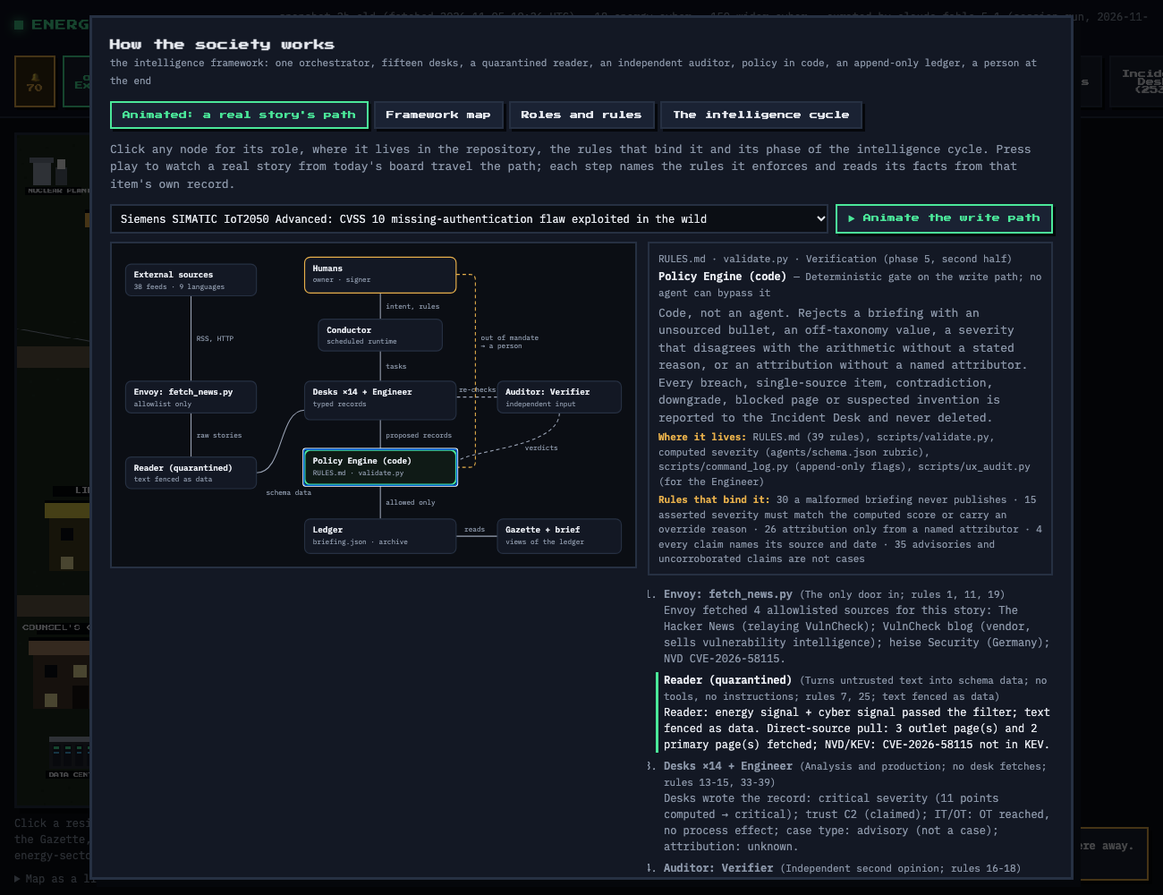
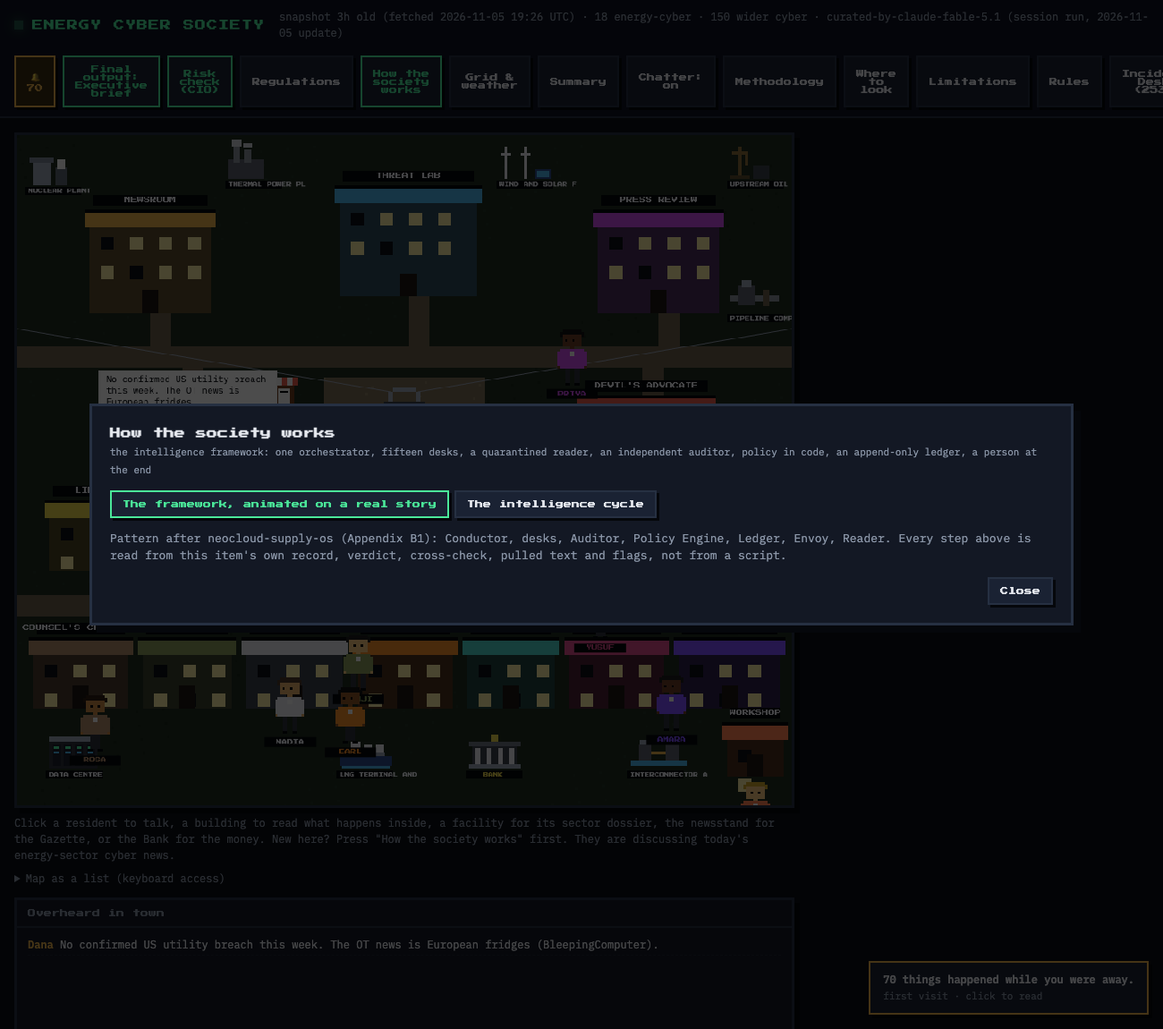
How the society works: two panes only; the animated framework carries names, roles, files and rules; intelligence cycle kept

diff --git a/docs/pipeline.js b/docs/pipeline.js
@@ -2,34 +2,34 @@
    topology (clickable nodes, packets along edges, a step list), driven by a real board item. */
 (() => {
 const esc = t => String(t == null ? '' : t).replace(/[&<>"]/g, c => ({ '&': '&amp;', '<': '&lt;', '>': '&gt;', '"': '&quot;' }[c]));
-const NODES = {
-  X: { x: 20, y: 30, w: 190, h: 46, t: 'External sources', s: '38 feeds · 9 languages', role: 'Outside the mandate', files: 'sources.json (the allowlist, each feed with a bias note), where_to_look.json (manual sources), NVD and CISA KEV APIs, api.weather.gov, ISO load feeds', rules: '1 only the allowlist enters · 2 the registry is a start, not proof · 7 forums, social posts, leak sites and content farms are excluded as sources', cycle: 'Collection (phase 2)', d: 'Everything the society can read: feeds, primary documents, government advisories, vulnerability databases, grid and weather feeds. Untrusted until graded. A ransomware leak site may be the subject of a story, never its evidence.' },
-  H: { x: 280, y: 20, w: 220, h: 52, t: 'Humans', s: 'owner · signer', role: 'The only authority over policy', files: 'RULES.md, sources.json, agents/personas.json, agents/schema.json, agents/sectors.json, source_ratings.json; the executive brief\'s signature block; pull-request reviews', rules: '31 people edit rules, sources, personas and dossiers; agents edit only data · 9 "I cannot verify this" is a required answer, never a plausible guess · 28 names are invented and may be changed', cycle: 'Planning and direction (phase 1) and Evaluation (phase 7)', d: 'Sets intent and scope (energy, worldwide, US first), writes the rules, decides the Ombudsman\'s proposals, merges the Engineer\'s pull requests, and signs or refuses the executive brief. Anything out of mandate ends here.', cls: 'human' },
-  C: { x: 300, y: 110, w: 180, h: 46, t: 'Conductor', s: 'scheduled runtime', role: 'Orchestrator; never parses raw data', files: 'CURATION.md (the playbook), scripts/run_agents.py (API path with a dry-run replay), scripts/routine.json (cloud routine, 11:00 and 23:00 UTC), .github/workflows/daily.yml', rules: '29 runs on a schedule, never from a button · 30 validate.py must pass before anything publishes · 32 token usage is measured and written into every run', cycle: 'Planning and direction (phase 1), executing the collection plan', d: 'Turns the owner\'s intent and the day\'s events into tasks for the desks. Reasons over the Reader\'s structured records only, so a hostile headline cannot steer it. Twice a day, unattended; it refused to publish when the sandbox blocked every feed.' },
-  E: { x: 20, y: 200, w: 190, h: 46, t: 'Envoy: fetch_news.py', s: 'allowlist only', role: 'The only door in', files: 'scripts/fetch_news.py; writes docs/data/news.json (energy bucket, wide bucket, errors, sources with bias notes)', rules: '1 allowlist only · 11 a story is energy-cyber only with an energy signal and a cyber signal; the rest goes to the wide bucket · 12 scope: generation, grids, oil and gas, nuclear, renewables, storage, transport, data centres, connectivity · 19 a blocked page is not a source', cycle: 'Collection (phase 2)', d: 'Reads the allowlisted feeds in nine languages, applies the whole-word energy-and-cyber filter, collapses cross-language duplicates, records every feed that failed or blocked. The Librarian reads its performance log to reroute the next run.' },
-  D: { x: 280, y: 200, w: 220, h: 56, t: 'Desks ×14 + Engineer', s: 'typed records', role: 'Analysis and production; no desk fetches', files: 'agents/personas.json (jobs, voices, process, where each looks, how each verifies), agents/schema.json (the record), agents/sectors.json (dossiers), agents/regulations.json, agents/risk_model.json, agents/research/', rules: '13 IT-versus-OT impact is mandatory · 14 one record per story in the schema · 15 importance and correctness are separate columns · 22-24 who was NOT affected, what else was happening, is "critical infrastructure" a billing system · 26 direct, plain, correct the visitor · 33-39 one campaign is one record, case types, attribution tiers, vendors are not culprits, blanks are gaps', cycle: 'Analysis and production (phase 4)', d: 'Reporter, Analyst, Media Critic, Wide-Angle, Contrarian, Librarian, Counsel, Archivist, Ombudsman, Operator, Economist, Geopolitical Analyst, Technologist, and the Engineer who works on the code by pull request. Each writes typed output: records with two separate grades (importance, trust), scoring with rationale, breach anatomy, correlations, scenarios, geopolitics by layer, regulations, costs, the ten-line brief.' },
-  A: { x: 560, y: 200, w: 180, h: 46, t: 'Auditor: Verifier', s: 'independent input', role: 'Independent second opinion', files: 'run_agents.py strip_for_verifier (facts only, never the author\'s rationale), docs/data/sources.json (pulled text), tests/ground_truth.json, scripts/check_ground_truth.py, docs/data/eval.json', rules: '16 every source URL is pulled, primaries followed · 17 outlet set beside primary: agree, differ, verdict · 18 hold / upgrade / downgrade / retire with the rule applied, and what changed · 20 two random items re-pulled each run · 21 background cases spot-checked', cycle: 'Verification (phase 5, first half)', d: 'Sees only the stripped factual fields and the pulled text. Grades sources A-F and claims 1-6, counts independent corroboration, and issues a verdict per item. Today it reopened the Zyxel item on a second vendor\'s finding and upgraded the RUGGEDCOM item on CISA\'s exploited list. A ground-truth file measures its agreement rate.' },
-  R: { x: 20, y: 310, w: 190, h: 46, t: 'Reader (quarantined)', s: 'text fenced as data', role: 'Turns untrusted text into schema data; no tools, no instructions', files: 'docs/data/news.json, scripts/pull_sources.py (direct sources and primary documents, language-independent anchors), scripts/enrich_cves.py (NVD, CISA KEV), scripts/classify_relevance.py (second-stage labels with a key)', rules: '7 excluded sources · 25 never invent an incident, number, victim, attribution or quote · every prompt fences fetched text as DATA', cycle: 'Processing and exploitation (phase 3)', d: 'The quarantine. Fetched headlines and pages are data, never instructions: the defence against prompt injection through a malicious feed. It also enriches every CVE from government databases, which settles "exploited?" without an outlet.' },
-  P: { x: 280, y: 300, w: 220, h: 50, t: 'Policy Engine (code)', s: 'RULES.md · validate.py', role: 'Deterministic gate on the write path; no agent can bypass it', files: 'RULES.md (39 rules), scripts/validate.py, computed severity (agents/schema.json rubric), scripts/command_log.py (append-only flags), scripts/ux_audit.py (for the Engineer)', rules: '30 a malformed briefing never publishes · 15 asserted severity must match the computed score or carry an override reason · 26 attribution only from a named attributor · 4 every claim names its source and date · 35 advisories and uncorroborated claims are not cases', cycle: 'Verification (phase 5, second half)', d: 'Code, not an agent. Rejects a briefing with an unsourced bullet, an off-taxonomy value, a severity that disagrees with the arithmetic without a stated reason, or an attribution without a named attributor. Every breach, single-source item, contradiction, downgrade, blocked page or suspected invention is reported to the Incident Desk and never deleted.', cls: 'gate' },
-  L: { x: 280, y: 400, w: 220, h: 50, t: 'Ledger', s: 'briefing.json · archive', role: 'The single source of truth; append-only', files: 'docs/data/briefing.json, docs/archive/<run>/ (every run\'s complete data set plus the rules in force), history.json, stix.json, engineering_log.json, command_log.json', rules: 'nothing overwritten; the page only reads the ledger · 32 usage is written into every run', cycle: 'Dissemination (phase 6) begins here', d: 'Every published briefing and every file it depended on is archived under its run id; git history is the second copy. The dashboard\'s trend lines, the Bank\'s run-by-run costs and the History tab all read from here.' },
-  G: { x: 560, y: 400, w: 180, h: 50, t: 'Gazette + brief', s: 'views of the ledger', role: 'Consumers; they add nothing', files: 'docs/gazette.html (the broadsheet), the Executive brief (executive_brief with signed=false), Summary, Risk check, Collections, STIX export', rules: '9 the brief stays unsigned until a person evaluates it · the Gazette masthead states that AI residents wrote it and the names are fictional', cycle: 'Dissemination (phase 6)', d: 'The broadsheet prints items, verdicts and sources straight from the ledger. The executive brief reduces the week to ten lines, each with why, exposure, action, confidence and source, and waits for a signature. The Risk check scores an organization against the same records.' },
+const NODES = {  // lines: detail drawn inside the node (like the static map)
+  X: { x: 20, y: 20, w: 215, h: 62, lines: ['feeds, primary docs, NVD/KEV, NWS, ISOs','untrusted until graded'], t: 'External sources', s: '38 feeds · 9 languages', role: 'Outside the mandate', files: 'sources.json (the allowlist, each feed with a bias note), where_to_look.json (manual sources), NVD and CISA KEV APIs, api.weather.gov, ISO load feeds', rules: '1 only the allowlist enters · 2 the registry is a start, not proof · 7 forums, social posts, leak sites and content farms are excluded as sources', cycle: 'Collection (phase 2)', d: 'Everything the society can read: feeds, primary documents, government advisories, vulnerability databases, grid and weather feeds. Untrusted until graded. A ransomware leak site may be the subject of a story, never its evidence.' },
+  H: { x: 270, y: 14, w: 240, h: 62, lines: ['intent · rules, sources, personas','merge PRs · sign the brief'], t: 'Humans', s: 'owner · signer', role: 'The only authority over policy', files: 'RULES.md, sources.json, agents/personas.json, agents/schema.json, agents/sectors.json, source_ratings.json; the executive brief\'s signature block; pull-request reviews', rules: '31 people edit rules, sources, personas and dossiers; agents edit only data · 9 "I cannot verify this" is a required answer, never a plausible guess · 28 names are invented and may be changed', cycle: 'Planning and direction (phase 1) and Evaluation (phase 7)', d: 'Sets intent and scope (energy, worldwide, US first), writes the rules, decides the Ombudsman\'s proposals, merges the Engineer\'s pull requests, and signs or refuses the executive brief. Anything out of mandate ends here.', cls: 'human' },
+  C: { x: 270, y: 112, w: 240, h: 62, lines: ['CURATION.md · 11:00 / 23:00 UTC','reasons over typed records only'], t: 'Conductor', s: 'scheduled runtime', role: 'Orchestrator; never parses raw data', files: 'CURATION.md (the playbook), scripts/run_agents.py (API path with a dry-run replay), scripts/routine.json (cloud routine, 11:00 and 23:00 UTC), .github/workflows/daily.yml', rules: '29 runs on a schedule, never from a button · 30 validate.py must pass before anything publishes · 32 token usage is measured and written into every run', cycle: 'Planning and direction (phase 1), executing the collection plan', d: 'Turns the owner\'s intent and the day\'s events into tasks for the desks. Reasons over the Reader\'s structured records only, so a hostile headline cannot steer it. Twice a day, unattended; it refused to publish when the sandbox blocked every feed.' },
+  E: { x: 20, y: 200, w: 215, h: 62, lines: ['allowlist only (sources.json)','energy + cyber filter · dedupe'], t: 'Envoy: fetch_news.py', s: 'allowlist only', role: 'The only door in', files: 'scripts/fetch_news.py; writes docs/data/news.json (energy bucket, wide bucket, errors, sources with bias notes)', rules: '1 allowlist only · 11 a story is energy-cyber only with an energy signal and a cyber signal; the rest goes to the wide bucket · 12 scope: generation, grids, oil and gas, nuclear, renewables, storage, transport, data centres, connectivity · 19 a blocked page is not a source', cycle: 'Collection (phase 2)', d: 'Reads the allowlisted feeds in nine languages, applies the whole-word energy-and-cyber filter, collapses cross-language duplicates, records every feed that failed or blocked. The Librarian reads its performance log to reroute the next run.' },
+  D: { x: 270, y: 210, w: 240, h: 118, lines: ['Reporter · Analyst · Critic · Wide-Angle','Contrarian · Librarian · Counsel · Archivist','Operator · Economist · Geopolitics','Technologist · Ombudsman · Engineer (PRs)','typed records: scoring, anatomy, scenarios','desks never fetch'], t: 'Desks ×14 + Engineer', s: 'typed records', role: 'Analysis and production; no desk fetches', files: 'agents/personas.json (jobs, voices, process, where each looks, how each verifies), agents/schema.json (the record), agents/sectors.json (dossiers), agents/regulations.json, agents/risk_model.json, agents/research/', rules: '13 IT-versus-OT impact is mandatory · 14 one record per story in the schema · 15 importance and correctness are separate columns · 22-24 who was NOT affected, what else was happening, is "critical infrastructure" a billing system · 26 direct, plain, correct the visitor · 33-39 one campaign is one record, case types, attribution tiers, vendors are not culprits, blanks are gaps', cycle: 'Analysis and production (phase 4)', d: 'Reporter, Analyst, Media Critic, Wide-Angle, Contrarian, Librarian, Counsel, Archivist, Ombudsman, Operator, Economist, Geopolitical Analyst, Technologist, and the Engineer who works on the code by pull request. Each writes typed output: records with two separate grades (importance, trust), scoring with rationale, breach anatomy, correlations, scenarios, geopolitics by layer, regulations, costs, the ten-line brief.' },
+  A: { cls: 'quar', x: 545, y: 210, w: 200, h: 76, lines: ['stripped records + pulled text only','grades A-F / 1-6 · cross-check','hold · upgrade · downgrade · retire'], t: 'Auditor: Verifier', s: 'independent input', role: 'Independent second opinion', files: 'run_agents.py strip_for_verifier (facts only, never the author\'s rationale), docs/data/sources.json (pulled text), tests/ground_truth.json, scripts/check_ground_truth.py, docs/data/eval.json', rules: '16 every source URL is pulled, primaries followed · 17 outlet set beside primary: agree, differ, verdict · 18 hold / upgrade / downgrade / retire with the rule applied, and what changed · 20 two random items re-pulled each run · 21 background cases spot-checked', cycle: 'Verification (phase 5, first half)', d: 'Sees only the stripped factual fields and the pulled text. Grades sources A-F and claims 1-6, counts independent corroboration, and issues a verdict per item. Today it reopened the Zyxel item on a second vendor\'s finding and upgraded the RUGGEDCOM item on CISA\'s exploited list. A ground-truth file measures its agreement rate.' },
+  R: { cls: 'quar', x: 20, y: 330, w: 215, h: 62, lines: ['news.json · pull_sources · enrich_cves','text fenced as DATA, never instructions'], t: 'Reader (quarantined)', s: 'text fenced as data', role: 'Turns untrusted text into schema data; no tools, no instructions', files: 'docs/data/news.json, scripts/pull_sources.py (direct sources and primary documents, language-independent anchors), scripts/enrich_cves.py (NVD, CISA KEV), scripts/classify_relevance.py (second-stage labels with a key)', rules: '7 excluded sources · 25 never invent an incident, number, victim, attribution or quote · every prompt fences fetched text as DATA', cycle: 'Processing and exploitation (phase 3)', d: 'The quarantine. Fetched headlines and pages are data, never instructions: the defence against prompt injection through a malicious feed. It also enriches every CVE from government databases, which settles "exploited?" without an outlet.' },
+  P: { x: 270, y: 372, w: 240, h: 76, lines: ['RULES.md 1-39 · validate.py','computed severity · attribution rule','every breach → Incident Desk'], t: 'Policy Engine (code)', s: 'RULES.md · validate.py', role: 'Deterministic gate on the write path; no agent can bypass it', files: 'RULES.md (39 rules), scripts/validate.py, computed severity (agents/schema.json rubric), scripts/command_log.py (append-only flags), scripts/ux_audit.py (for the Engineer)', rules: '30 a malformed briefing never publishes · 15 asserted severity must match the computed score or carry an override reason · 26 attribution only from a named attributor · 4 every claim names its source and date · 35 advisories and uncorroborated claims are not cases', cycle: 'Verification (phase 5, second half)', d: 'Code, not an agent. Rejects a briefing with an unsourced bullet, an off-taxonomy value, a severity that disagrees with the arithmetic without a stated reason, or an attribution without a named attributor. Every breach, single-source item, contradiction, downgrade, blocked page or suspected invention is reported to the Incident Desk and never deleted.', cls: 'gate' },
+  L: { x: 270, y: 494, w: 240, h: 62, lines: ['briefing.json · archive/<run> · STIX','append-only; the page only reads'], t: 'Ledger', s: 'briefing.json · archive', role: 'The single source of truth; append-only', files: 'docs/data/briefing.json, docs/archive/<run>/ (every run\'s complete data set plus the rules in force), history.json, stix.json, engineering_log.json, command_log.json', rules: 'nothing overwritten; the page only reads the ledger · 32 usage is written into every run', cycle: 'Dissemination (phase 6) begins here', d: 'Every published briefing and every file it depended on is archived under its run id; git history is the second copy. The dashboard\'s trend lines, the Bank\'s run-by-run costs and the History tab all read from here.' },
+  G: { x: 545, y: 494, w: 200, h: 62, lines: ['Gazette · Executive brief (unsigned)','Risk check · Collections'], t: 'Gazette + brief', s: 'views of the ledger', role: 'Consumers; they add nothing', files: 'docs/gazette.html (the broadsheet), the Executive brief (executive_brief with signed=false), Summary, Risk check, Collections, STIX export', rules: '9 the brief stays unsigned until a person evaluates it · the Gazette masthead states that AI residents wrote it and the names are fictional', cycle: 'Dissemination (phase 6)', d: 'The broadsheet prints items, verdicts and sources straight from the ledger. The executive brief reduces the week to ten lines, each with why, exposure, action, confidence and source, and waits for a signature. The Risk check scores an organization against the same records.' },
 };
 const EDGES = [
-  ['M390,72 L390,110', 'intent, rules', 398, 95],
-  ['M390,156 L390,200', 'tasks', 398, 182],
-  ['M390,256 L390,300', 'proposed records', 398, 282],
-  ['M390,350 L390,400', 'allowed only', 398, 379],
-  ['M115,76 L115,200', 'RSS, HTTP', 123, 142],
-  ['M115,246 L115,310', 'raw stories', 123, 282],
-  ['M210,333 C250,333 242,242 280,242', 'schema data', 224, 365],
-  ['M560,223 L500,223', 're-checks', 504, 216, 'dash'],
-  ['M500,325 H520 Q528,325 528,317 V53 Q528,45 520,45 H500', 'out of mandate|→ a person', 536, 140, 'escalate'],
-  ['M500,425 L560,425', 'reads', 512, 418],
-  ['M650,246 C650,300 500,300 500,320', 'verdicts', 600, 300, 'dash'],
+  ['M390,76 L390,112', 'intent, rules', 398, 98],
+  ['M390,174 L390,210', 'tasks', 398, 196],
+  ['M390,328 L390,372', 'proposed records', 398, 354],
+  ['M390,448 L390,494', 'allowed only', 398, 475],
+  ['M127,82 L127,200', 'RSS, HTTP', 135, 145],
+  ['M127,262 L127,330', 'raw stories', 135, 300],
+  ['M235,361 C255,361 250,270 270,270', 'schema data', 238, 388],
+  ['M545,248 L510,248', 're-checks', 512, 241, 'dash'],
+  ['M510,400 H528 Q536,400 536,392 V53 Q536,45 528,45 H510', 'out of mandate|→ a person', 544, 160, 'escalate'],
+  ['M510,525 L545,525', 'reads', 516, 518],
+  ['M645,286 C645,340 520,340 510,400', 'verdicts', 600, 345, 'dash'],
 ];
 const svg = document.getElementById('vtopo'); if (!svg) return;
-svg.innerHTML = EDGES.map(([d, label, lx, ly, kind], i) => { const lines = label.split('|').map((t, j) => `<tspan x="${lx}" dy="${j ? 12 : 0}">${esc(t)}</tspan>`).join(''); return `<path id="ve${i}" class="edge ${kind === 'dash' ? 'dash' : ''} ${kind === 'escalate' ? 'esc' : ''}" d="${d}"/><text class="elabel" x="${lx}" y="${ly}">${lines}</text>`; }).join('') + Object.entries(NODES).map(([k, n]) => `<g class="node ${n.cls || ''}" data-n="${k}" tabindex="0" role="button" aria-label="${esc(n.t)}"><rect x="${n.x}" y="${n.y}" width="${n.w}" height="${n.h}" rx="8"/><text x="${n.x + 12}" y="${n.y + 20}">${esc(n.t)}</text><text class="sub" x="${n.x + 12}" y="${n.y + 36}">${esc(n.s)}</text></g>`).join('') + '<g id="vpackets"></g>';
-function showNode(k) { const n = NODES[k]; svg.querySelectorAll('.node').forEach(g => g.classList.toggle('on', g.dataset.n === k)); document.getElementById('vnode').innerHTML = `<span class="k">${esc(n.s)} · ${esc(n.cycle)}</span><h4>${esc(n.t)} <span class="k">— ${esc(n.role)}</span></h4><p>${esc(n.d)}</p><div class="vdet"><b>Where it lives:</b> ${esc(n.files)}</div><div class="vdet"><b>Rules that bind it:</b> ${esc(n.rules)}</div>`; }
+svg.innerHTML = EDGES.map(([d, label, lx, ly, kind], i) => { const lines = label.split('|').map((t, j) => `<tspan x="${lx}" dy="${j ? 12 : 0}">${esc(t)}</tspan>`).join(''); return `<path id="ve${i}" class="edge ${kind === 'dash' ? 'dash' : ''} ${kind === 'escalate' ? 'esc' : ''}" d="${d}"/><text class="elabel" x="${lx}" y="${ly}">${lines}</text>`; }).join('') + Object.entries(NODES).map(([k, n]) => `<g class="node ${n.cls || ''}" data-n="${k}" tabindex="0" role="button" aria-label="${esc(n.t)}"><rect x="${n.x}" y="${n.y}" width="${n.w}" height="${n.h}" rx="8"/><text x="${n.x + n.w / 2}" y="${n.y + 18}" text-anchor="middle">${esc(n.t)}</text>${(n.lines || [n.s]).map((ln, j) => `<text class="sub" x="${n.x + n.w / 2}" y="${n.y + 33 + j * 13}" text-anchor="middle">${esc(ln)}</text>`).join('')}</g>`).join('') + '<g id="vpackets"></g>';
+function showNode(k) { const n = NODES[k]; svg.querySelectorAll('.node').forEach(g => g.classList.toggle('on', g.dataset.n === k)); const cls = { human: 'amber: a person', gate: 'green: deterministic code' }[n.cls] || (k === 'A' || k === 'R' ? 'red: quarantine or independence' : ''); document.getElementById('vnode').innerHTML = `<span class="k">${esc(n.s)} · ${esc(n.cycle)}${cls ? ' · ' + esc(cls) : ''}</span><h4>${esc(n.t)} <span class="k">— ${esc(n.role)}</span></h4><p>${esc(n.d)}</p><div class="vdet"><b>Where it lives:</b> ${esc(n.files)}</div><div class="vdet"><b>Rules that bind it:</b> ${esc(n.rules)}</div>`; }
 svg.addEventListener('click', e => { const g = e.target.closest('.node'); if (g) showNode(g.dataset.n); });
 svg.addEventListener('keydown', e => { const g = e.target.closest('.node'); if (g && (e.key === 'Enter' || e.key === ' ')) { e.preventDefault(); showNode(g.dataset.n); } });
 showNode('C');

diff --git a/docs/index.html b/docs/index.html
@@ -170,32 +170,8 @@
 <dialog id="dlg-pipeline" class="dlg wide xl">
   <form method="dialog">
     <h2>How the society works <small>the intelligence framework: one orchestrator, fifteen desks, a quarantined reader, an independent auditor, policy in code, an append-only ledger, a person at the end</small></h2>
-    <div class="fw-tabs"><button type="button" class="pix on" data-fw="animate">Animated: a real story's path</button><button type="button" class="pix" data-fw="map">Framework map</button><button type="button" class="pix" data-fw="roles">Roles and rules</button><button type="button" class="pix" data-fw="cycle">The intelligence cycle</button></div>
-    <div id="fw-map" class="fw-pane" hidden><div class="topo"><object type="image/svg+xml" data="topology.svg" aria-label="Process topology diagram">topology.svg</object></div><p class="k">After neocloud-supply-os Appendix B1. Green: deterministic code. Red: quarantine or independence. Amber: human.</p></div>
-    <div id="fw-roles" class="fw-pane" hidden><table class="fac-table"><tr><th>Role</th><th>In this society</th><th>Rule that binds it</th></tr>
-      <tr><th>Humans</th><td>the owner: edits rules, sources, personas, dossiers; merges PRs; signs the brief</td><td>31: people edit policy; agents edit only data</td></tr>
-      <tr><th>Conductor</th><td>the scheduled runtime (CURATION.md), twice a day</td><td>29: scheduled, never triggered from the page</td></tr>
-      <tr><th>Envoy</th><td>fetch_news.py over the allowlist, 38 feeds, 9 languages</td><td>1: only the allowlist enters</td></tr>
-      <tr><th>Reader (quarantined)</th><td>news.json, pull_sources.py, enrich_cves.py; text fenced as data</td><td>7, 25: fetched text is data; nothing invented</td></tr>
-      <tr><th>Desks</th><td>14 analytic residents + the Engineer; typed records against the schema</td><td>13-15: IT/OT mandatory; importance and trust kept apart</td></tr>
-      <tr><th>Auditor</th><td>the Verifier, on stripped records and pulled text only</td><td>16-21: pull, cross-check, verdict, what changed</td></tr>
-      <tr><th>Policy Engine</th><td>RULES.md, validate.py, computed severity, attribution rule, flag logger</td><td>30: a malformed briefing never publishes</td></tr>
-      <tr><th>Ledger</th><td>briefing.json, archive/&lt;run&gt;, history, STIX, engineering log</td><td>append-only; the page only reads</td></tr>
-      <tr><th>Out of mandate</th><td>unsigned brief, Ombudsman proposals, Engineer PRs, blocked pages, "I cannot verify this"</td><td>9: say so instead of guessing</td></tr></table>
-      <p class="k">Full text: <a href="RULES.md" target="_blank" rel="noopener">RULES.md</a> (39 rules) · <a href="INTELLIGENCE_ANALYSIS.md" target="_blank" rel="noopener">INTELLIGENCE_ANALYSIS.md</a> (ten-step procedure) · <a href="REGISTER.md" target="_blank" rel="noopener">REGISTER.md</a> (how each resident thinks).</p></div>
-    <div id="fw-cycle" class="fw-pane" hidden><ol class="cycle">
-      <li><b>Planning and direction</b> · the owner sets scope (energy, worldwide, US first) and the rules</li>
-      <li><b>Collection</b> · the Envoy reads the allowlist; the Librarian keeps the map of where to look and what was blocked</li>
-      <li><b>Processing</b> · the Reader filters, dedupes across languages, pulls direct sources, enriches CVEs from NVD and KEV</li>
-      <li><b>Analysis and production</b> · the desks write records, scoring with rationale, breach anatomy, correlations, scenarios, geopolitics by layer, regulations, costs</li>
-      <li><b>Verification</b> · the Verifier grades sources A-F and claims 1-6, cross-checks outlet against primary, issues verdicts; the Policy Engine rejects what breaks a rule</li>
-      <li><b>Dissemination</b> · the executive brief (unsigned), Summary, Gazette, Risk check, STIX</li>
-      <li><b>Evaluation</b> · the Ombudsman audits the residents; ground truth and human samples measure accuracy; the Engineer repairs the code by PR; the owner decides</li></ol>
-      <p class="k">Synthesised from the intelligence cycle, ICD 203 analytic standards, ICD 206 sourcing, Admiralty grading and the FBI/CISA advisory format; see INTELLIGENCE_ANALYSIS.md.</p></div>
-    <div id="fw-animate" class="fw-pane"><p class="k">Click any node for its role, where it lives in the repository, the rules that bind it and its phase of the intelligence cycle. Press play to watch a real story from today's board travel the path; each step names the rules it enforces and reads its facts from that item's own record.</p>
-    <div class="row" style="justify-content:flex-start;margin:0 0 8px;gap:8px;flex-wrap:wrap"><select id="vitem" style="flex:1;min-width:280px;background:#0b0e14;border:2px solid var(--line);color:var(--ink);padding:6px;font-family:var(--font);font-size:12px"></select><button type="button" class="pix accent" id="vplay">▶ Animate the write path</button></div>
-    <div class="vwrap"><svg class="topo-svg" id="vtopo" viewBox="0 0 760 470" role="img" aria-label="Validation topology"></svg><div class="vside"><div id="vnode" class="vnode"></div><ol id="vsteps" class="vsteps"></ol></div></div>
-    <p class="k">Pattern after neocloud-supply-os (Appendix B1): Conductor, desks, Auditor, Policy Engine, Ledger, Envoy, Reader. Every step above is read from this item's own record, verdict, cross-check, pulled text and flags, not from a script.</p></div>
+    <div class="fw-tabs"><button type="button" class="pix on" data-fw="animate">The framework, animated on a real story</button><button type="button" class="pix" data-fw="cycle">The intelligence cycle</button></div>
+        <p class="k">Pattern after neocloud-supply-os (Appendix B1): Conductor, desks, Auditor, Policy Engine, Ledger, Envoy, Reader. Every step above is read from this item's own record, verdict, cross-check, pulled text and flags, not from a script.</p></div>
     <div class="row"><button class="pix">Close</button></div>
   </form>
 </dialog>

diff --git a/docs/game.js b/docs/game.js
@@ -745,7 +745,7 @@ $('btn-grid').onclick = async () => {
 };
 
 $('btn-framework').onclick = () => { $('dlg-pipeline').showModal(); setTimeout(() => window.ECS_PIPELINE && window.ECS_PIPELINE.play(), 300); };
-document.querySelectorAll('.fw-tabs [data-fw]').forEach(b => b.onclick = () => { document.querySelectorAll('.fw-tabs [data-fw]').forEach(x => x.classList.toggle('on', x === b)); document.querySelectorAll('.fw-pane').forEach(p => p.hidden = p.id !== 'fw-' + b.dataset.fw); if (b.dataset.fw === 'animate' && window.ECS_PIPELINE) window.ECS_PIPELINE.play(); });
+document.querySelectorAll('.fw-tabs [data-fw]').forEach(b => b.onclick = () => { document.querySelectorAll('.fw-tabs [data-fw]').forEach(x => x.classList.toggle('on', x === b)); document.querySelectorAll('.fw-pane').forEach(p => p.hidden = p.id !== 'fw-' + b.dataset.fw); if (b.dataset.fw === 'animate') setTimeout(() => window.ECS_PIPELINE && window.ECS_PIPELINE.play(), 50); if (b.dataset.fw === 'animate' && window.ECS_PIPELINE) window.ECS_PIPELINE.play(); });
 
 // regulations: the Counsel's register and the week's regulatory news with impact
 let regs = null;

diff --git a/docs/style.css b/docs/style.css
@@ -182,3 +182,6 @@ button.link{background:none;border:0;color:var(--accent);cursor:pointer;font-fam
 .viewer{width:100%;height:72vh;border:2px solid var(--line);background:#f1e9d6}
 .fw-tabs{display:flex;gap:6px;flex-wrap:wrap;margin-bottom:10px}.fw-tabs .pix.on{border-color:var(--accent);color:var(--accent)}.fw-pane[hidden]{display:none}.cycle li{margin-bottom:8px}.cycle{padding-left:20px;font-size:13px}
 .vdet{font-size:11px;color:var(--mute);margin-top:4px}.vdet b{color:var(--warn)}.vnode{min-height:140px}
+.topo-svg .node .sub{font-size:9.5px}
+.vwrap2{display:grid;grid-template-columns:minmax(0,1.6fr) minmax(280px,1fr);gap:12px}@media(max-width:900px){.vwrap2{grid-template-columns:1fr}}.vsteps.wide{max-height:none;columns:2;column-gap:24px;margin-top:10px}@media(max-width:900px){.vsteps.wide{columns:1}}.vsteps.wide li{break-inside:avoid}
+.topo-svg .node.quar rect{stroke:#e85a4b}.topo-svg .node.on rect{stroke:#4be89a;stroke-width:2.5}
